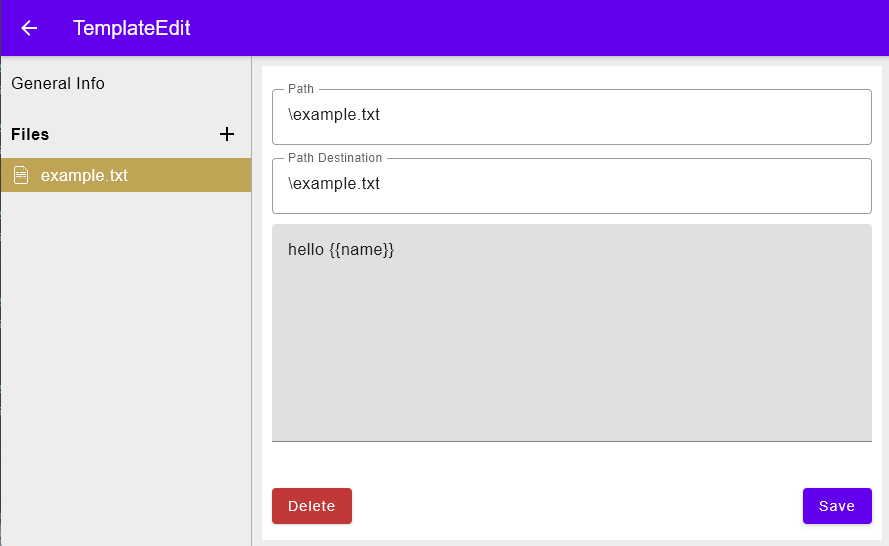
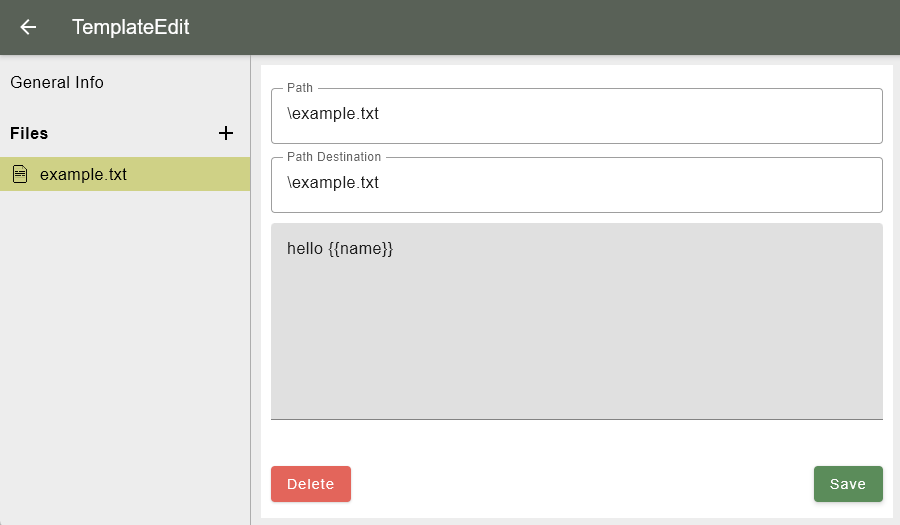
rework of README

diff --git a/src/jvmMain/kotlin/com/jaehl/codeTool/ui/page/templateEdit/TemplateEditPage.kt b/src/jvmMain/kotlin/com/jaehl/codeTool/ui/page/templateEdit/TemplateEditPage.kt
@@ -123,7 +123,11 @@ fun MainPannel(
             isError = (viewModel.name.value.error != null),
             modifier = Modifier
                 .fillMaxWidth()
-                .padding(top = 5.dp)
+                .padding(top = 5.dp),
+            colors = TextFieldDefaults.outlinedTextFieldColors(
+                focusedBorderColor = R.Color.OutlinedTextField.focusedBorderColor,
+                focusedLabelColor = R.Color.OutlinedTextField.focusedLabelColor
+            )
         )
         if(viewModel.name.value.error != null) {
             Text(text = viewModel.name.value.error ?: "", color = R.Color.errorText)
@@ -224,7 +228,11 @@ fun TemplateVariable(
                 viewModel.onTemplateVariableNameChange(index, it)
             },
             label = { Text("Name") },
-            modifier = Modifier.fillMaxWidth().padding(top = 5.dp)
+            modifier = Modifier.fillMaxWidth().padding(top = 5.dp),
+            colors = TextFieldDefaults.outlinedTextFieldColors(
+                focusedBorderColor = R.Color.OutlinedTextField.focusedBorderColor,
+                focusedLabelColor = R.Color.OutlinedTextField.focusedLabelColor
+            )
         )
 
         Picker(
@@ -243,7 +251,11 @@ fun TemplateVariable(
                     viewModel.onTemplateVariableStartPathChange(index, it)
                 },
                 label = { Text("Start Path") },
-                modifier = Modifier.fillMaxWidth().padding(top = 5.dp)
+                modifier = Modifier.fillMaxWidth().padding(top = 5.dp),
+                colors = TextFieldDefaults.outlinedTextFieldColors(
+                    focusedBorderColor = R.Color.OutlinedTextField.focusedBorderColor,
+                    focusedLabelColor = R.Color.OutlinedTextField.focusedLabelColor
+                )
             )
         }
 
@@ -253,7 +265,11 @@ fun TemplateVariable(
                 viewModel.onTemplateVariableDefaultChange(index, it)
             },
             label = { Text("Default") },
-            modifier = Modifier.fillMaxWidth().padding(top = 5.dp)
+            modifier = Modifier.fillMaxWidth().padding(top = 5.dp),
+            colors = TextFieldDefaults.outlinedTextFieldColors(
+                focusedBorderColor = R.Color.OutlinedTextField.focusedBorderColor,
+                focusedLabelColor = R.Color.OutlinedTextField.focusedLabelColor
+            )
         )
     }
 }
@@ -279,7 +295,11 @@ fun FilePannel(
             isError = (viewModel.templateFilePath.value.error != null),
             modifier = Modifier
                 .fillMaxWidth()
-                .padding(top = 5.dp)
+                .padding(top = 5.dp),
+            colors = TextFieldDefaults.outlinedTextFieldColors(
+                focusedBorderColor = R.Color.OutlinedTextField.focusedBorderColor,
+                focusedLabelColor = R.Color.OutlinedTextField.focusedLabelColor
+            )
         )
         if(viewModel.templateFilePath.value.error != null) {
             Text(text = viewModel.templateFilePath.value.error ?: "", color = R.Color.errorText)
@@ -294,7 +314,11 @@ fun FilePannel(
             isError = (viewModel.templateFilePathDestination.value.error != null),
             modifier = Modifier
                 .fillMaxWidth()
-                .padding(top = 5.dp)
+                .padding(top = 5.dp),
+            colors = TextFieldDefaults.outlinedTextFieldColors(
+                focusedBorderColor = R.Color.OutlinedTextField.focusedBorderColor,
+                focusedLabelColor = R.Color.OutlinedTextField.focusedLabelColor
+            )
         )
         if(viewModel.templateFilePathDestination.value.error != null) {
             Text(text = viewModel.templateFilePathDestination.value.error ?: "", color = R.Color.errorText)

diff --git a/src/jvmMain/kotlin/com/jaehl/codeTool/ui/R.kt b/src/jvmMain/kotlin/com/jaehl/codeTool/ui/R.kt
@@ -1,5 +1,7 @@
 package com.jaehl.codeTool.ui
 
+import androidx.compose.material.TextFieldColors
+import androidx.compose.material.TextFieldDefaults
 import androidx.compose.ui.graphics.Color
 
 object R {
@@ -8,13 +10,9 @@ object R {
 
         val rowBackgroundOdd = Color(0xffffffff)
         val rowBackgroundEven = Color(0xffededed)
-//
-//        val primary = Color(0xff5B8C5A)
-//        val secondary = Color(0xff596157)
 
         val textDark = Color(0xff000000)
         val textLight = Color(0xffffffff)
-
 
         object Primary {
             val background = Color(0xff596157)
@@ -35,18 +33,10 @@ object R {
             val content = textLight
         }
 
-//        val primary = Color(0xff52414C)
-//        val primaryContent = textLight
-//
-//        val secondary = Color(0xff5B8C5A)
-//        val secondaryContent = textLight
-//
-//        val tertiary = Color(0xffCFD186)
-//        val tertiaryContent = textLight
-//
-//        val warning = Color(0xffE3655B)
-//        val warningContent = textLight
-
+        object Disabled {
+            val background = Color(0xffbababa)
+            val content = Color(0xff4a4a4a)
+        }
 
         val dividerColor = Color(0xffadadad)
 
@@ -56,13 +46,9 @@ object R {
 
         val errorText = Color(0xffc23838)
 
-        val debugRed = Color(0xffff0000)
-        val debugGreen = Color(0xff00ff00)
-        val debugBlue = Color(0xff0000ff)
-
         val transparent = Color(0x00000000)
 
-        val disabledBackground = Color(0xffbababa)
+        //val disabledBackground = Color(0xffbababa)
 
         val codeBlock = Color(0xffe0e0e0)
 
@@ -99,6 +85,11 @@ object R {
                 var background = Tertiary.background
                 var text = Tertiary.content
             }
+        }
+
+        object OutlinedTextField {
+            val focusedBorderColor = R.Color.Primary.background
+            val focusedLabelColor = R.Color.Primary.background
         }
     }
 }

diff --git a/src/jvmMain/kotlin/com/jaehl/codeTool/ui/page/projectEdit/ProjectEditPage.kt b/src/jvmMain/kotlin/com/jaehl/codeTool/ui/page/projectEdit/ProjectEditPage.kt
@@ -51,7 +51,11 @@ fun ProjectEditPage(
                     value = viewModel.projectName.value,
                     onValueChange = { viewModel.onProjectNameChange(it) },
                     label = { Text("Name") },
-                    modifier = Modifier.fillMaxWidth().padding(top = 5.dp)
+                    modifier = Modifier.fillMaxWidth().padding(top = 5.dp),
+                    colors = TextFieldDefaults.outlinedTextFieldColors(
+                        focusedBorderColor = R.Color.OutlinedTextField.focusedBorderColor,
+                        focusedLabelColor = R.Color.OutlinedTextField.focusedLabelColor
+                    )
                 )
 
                 Picker(
@@ -172,7 +176,11 @@ fun ProjectVariable(
                 viewModel.onProjectVariableNameChange(index, it)
             },
             label = { Text("Name") },
-            modifier = Modifier.fillMaxWidth().padding(top = 5.dp)
+            modifier = Modifier.fillMaxWidth().padding(top = 5.dp),
+            colors = TextFieldDefaults.outlinedTextFieldColors(
+                focusedBorderColor = R.Color.OutlinedTextField.focusedBorderColor,
+                focusedLabelColor = R.Color.OutlinedTextField.focusedLabelColor
+            )
         )
 
         Picker(
@@ -190,7 +198,11 @@ fun ProjectVariable(
                 viewModel.onProjectVariableValueChange(index, it)
             },
             label = { Text("Value") },
-            modifier = Modifier.fillMaxWidth().padding(top = 5.dp)
+            modifier = Modifier.fillMaxWidth().padding(top = 5.dp),
+            colors = TextFieldDefaults.outlinedTextFieldColors(
+                focusedBorderColor = R.Color.OutlinedTextField.focusedBorderColor,
+                focusedLabelColor = R.Color.OutlinedTextField.focusedLabelColor
+            )
         )
     }
 

diff --git a/src/jvmMain/kotlin/com/jaehl/codeTool/ui/page/templateApply/TemplateApplyPage.kt b/src/jvmMain/kotlin/com/jaehl/codeTool/ui/page/templateApply/TemplateApplyPage.kt
@@ -103,6 +103,10 @@ fun MainPannel(
                         value = variable.value,
                         onValueChange = {viewModel.onVariableStringChange(index, it)},
                         label = { Text(variable.name) },
+                        colors = TextFieldDefaults.outlinedTextFieldColors(
+                            focusedBorderColor = R.Color.OutlinedTextField.focusedBorderColor,
+                            focusedLabelColor = R.Color.OutlinedTextField.focusedLabelColor
+                        )
                     )
                 }
                 is TemplateApplyViewModel.VariablePath -> {

diff --git a/src/jvmMain/kotlin/com/jaehl/codeTool/ui/dialog/folderPicker/FolderPickerDialog.kt b/src/jvmMain/kotlin/com/jaehl/codeTool/ui/dialog/folderPicker/FolderPickerDialog.kt
@@ -101,10 +101,11 @@ fun FolderBreadcrumbChip(
                 }
             }
             .padding(start = 5.dp)
-            .background(if(selectable) R.Color.Primary.background else R.Color.disabledBackground)
+            .background(if(selectable) R.Color.Tertiary.background else R.Color.Disabled.background)
     ) {
         Text(
             text = name,
+            color = if(selectable) R.Color.Tertiary.content else R.Color.Disabled.content,
             modifier = Modifier
                 .padding(5.dp)
         )

diff --git a/src/jvmMain/kotlin/com/jaehl/codeTool/ui/page/templateEdit/TemplateEditViewModel.kt b/src/jvmMain/kotlin/com/jaehl/codeTool/ui/page/templateEdit/TemplateEditViewModel.kt
@@ -325,6 +325,7 @@ class TemplateEditViewModel(
             name.value = name.value.copy(value = template?.name ?: "")
             variables.postSwap(template?.variable ?: listOf())
             selectedNavRow.value = navRowSelect
+            validateTemplate()
         }
     }
 

diff --git a/README.md b/README.md
@@ -64,11 +64,9 @@ a Project Variable is a variable that is accessible to any template
 
 a Template is a collection of Variable and template Files
 
-- on the "Home" page click "Edit Templates"
+- on the "Home" page click "Templates"
 - then on the "Templates" page click "Add Template" button
 - enter and name for the template
-- set a "Directory Path" for the template. this will be a relative path to the Code tool user folder. 
-For example a value of "\exampleTemplate" would be "C:\Users\bob\CodeTool\exampleTemplate"
 
 ![](/readmeScreenshots/templateEdit1.png)
 
